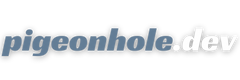
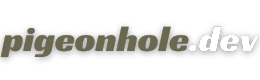
updated index route

Changed region(s): [[0.0, 0.325, 0.9917, 0.725], [0.8167, 0.325, 0.875, 0.35], [0.9333, 0.625, 0.9625, 0.65]]

diff --git a/pigeonhole/static/css/styles.css b/pigeonhole/static/css/styles.css
@@ -10,7 +10,7 @@ body {
 body {
     display: flex;
     flex-direction: column;
-    background-color: #CBD0DA;
+    background-color: #6C684F;
 }
 
 /* Style the main content area */
@@ -73,7 +73,7 @@ body {
 
 /* Style link hover effect */
 .nav a:hover {
-    color: #637d96;
+    color: #6C684F;
     /* Change text color on hover */
 }
 
@@ -126,7 +126,7 @@ body {
 /* START project section */
 /* Style the hero section */
 .hero {
-    background-color: white;
+    background-color: #FEFBEA;
     /* Set the background color of the section to white */
     width: 90%;
     /* Limit the section to 90% of the width */
@@ -179,5 +179,6 @@ body {
 }
 
 .hero-paragraph {
-    margin: 0; /* Remove default margin to eliminate space above and below the paragraph */
-  }
+    margin: 0;
+    /* Remove default margin to eliminate space above and below the paragraph */
+}
